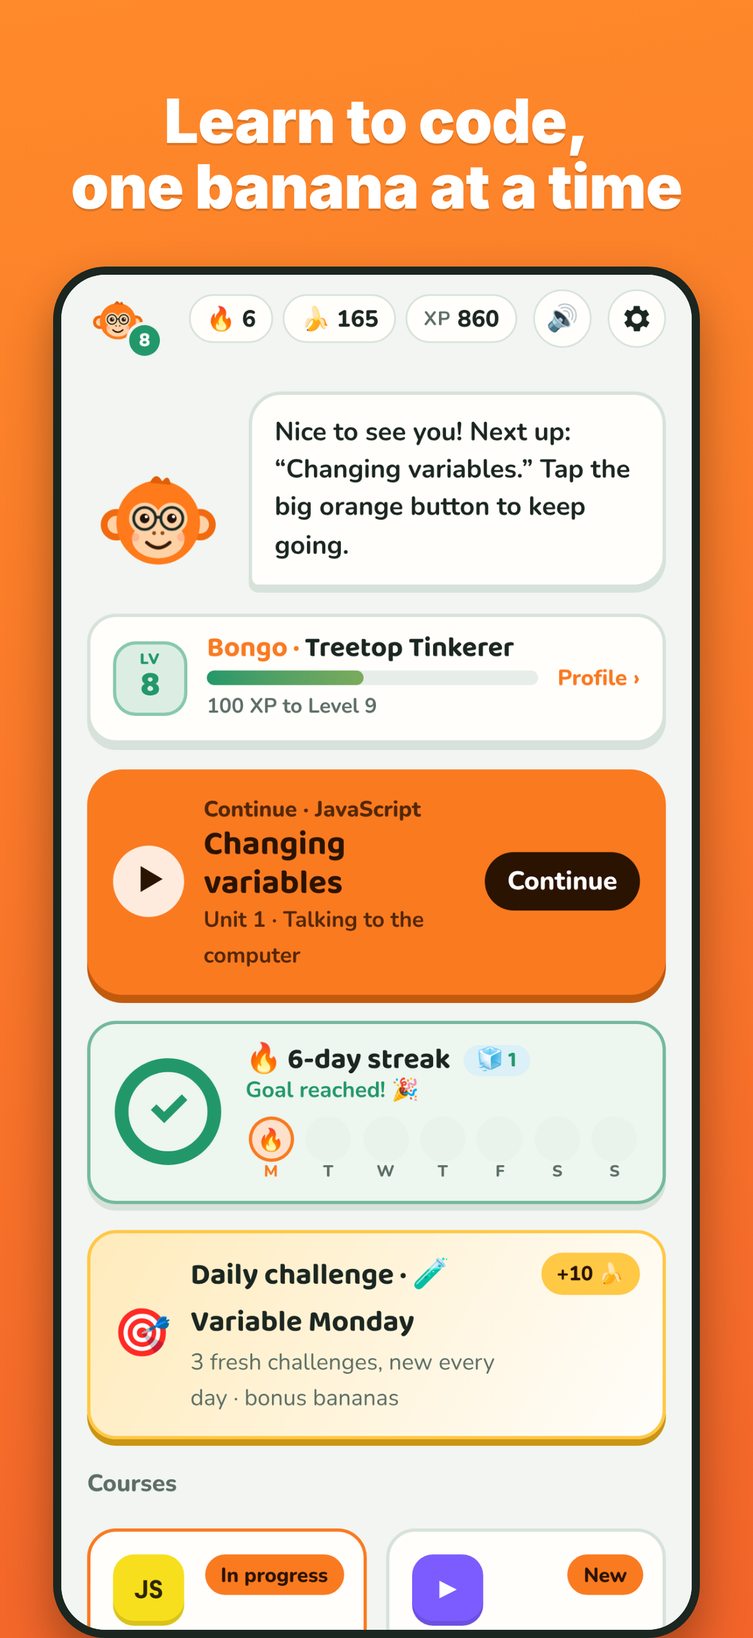
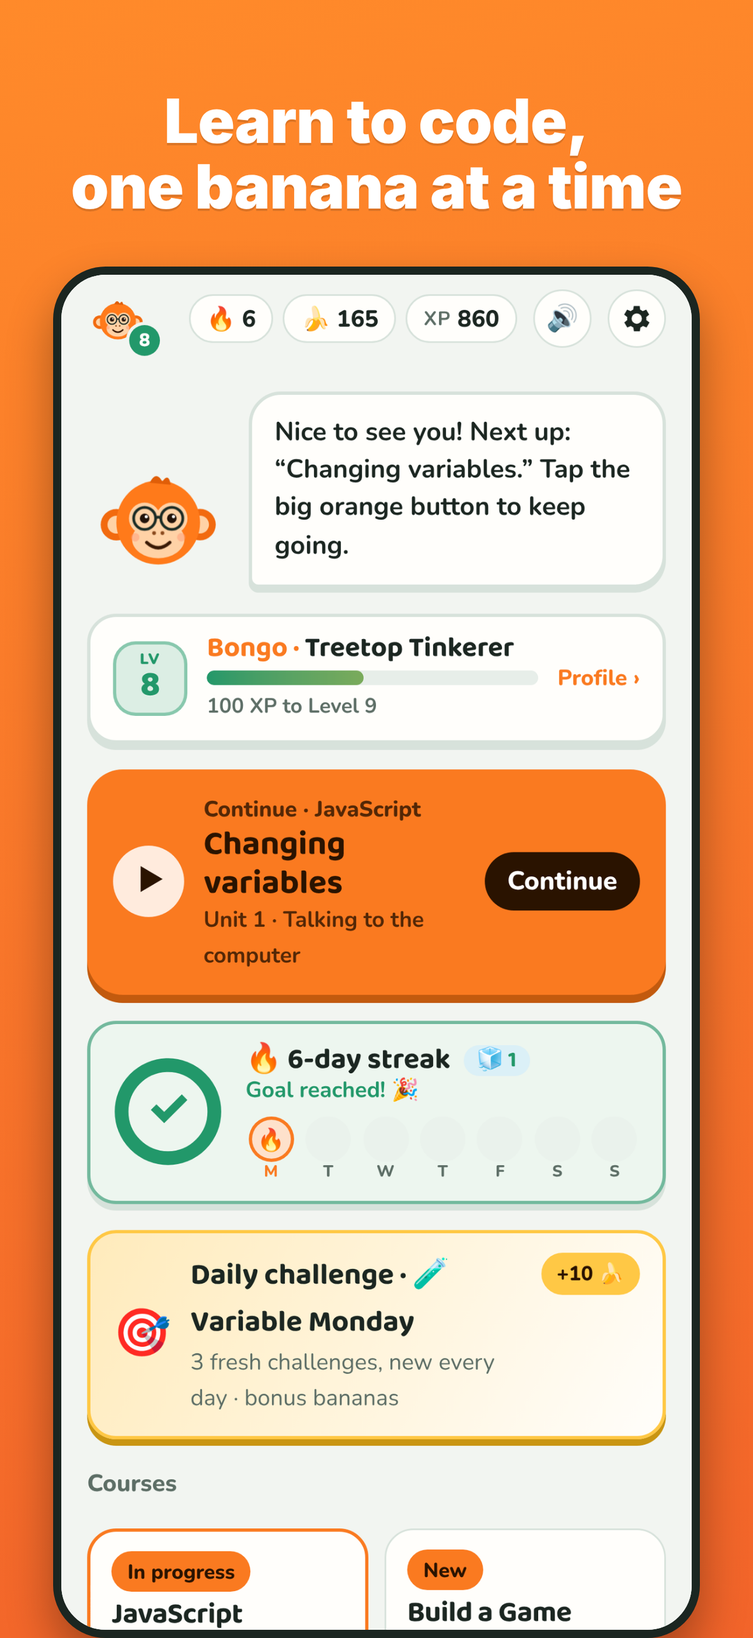
Daily challenge: always 3 fresh puzzles for HTML/SQL/C#/C++/Java/Swift (was 1 repeated); original course cards in a 2-column grid; backup never overwritten before the launch check
Claude-Session: https://claude.ai/code/session_01SrKVjDkXxNfhwYc5YCkDbQ

Changed region(s): [[0.1227, 0.9268, 0.859, 1.0]]

diff --git a/tm-app.js b/tm-app.js
@@ -1960,16 +1960,34 @@ function dailyCoder(r,c,day=new Date()){
 function dailyOpts(ans,wrong){const A=String(ans),seen=new Set([A]),o=[A];for(const w of wrong){const s=String(w);if(!seen.has(s)&&o.length<4){seen.add(s);o.push(s)}}let k=2;while(o.length<3){const s=String((+A||0)+k++);if(!seen.has(s)){seen.add(s);o.push(s)}}return o}
 function pickLeveled(r,bank,L,n){const pool=bank.filter(([l])=>l===L),lower=bank.filter(([l])=>l<L);const out=[];const src=[...pool];
   while(out.length<n&&(src.length||lower.length)){const from=src.length&&(out.length===0||!lower.length||r()<.7)?src:lower;out.push(from.splice(Math.floor(r()*from.length),1)[0][1])}return out}
-function dailyFromLessons(r,c){  // other languages: puzzles from everything you've learned (newest first), never one from the last week
-  const done=flat(c).filter(x=>x.l.steps&&S.done.includes(x.l.id));const L=done.length?done:flat(c).filter(x=>x.l.steps).slice(0,1);
-  const seen=dailySeen(),recent=L.slice(-10),pools=[];recent.forEach((x,ri)=>(x.l.pool||[]).forEach((p,j)=>pools.push({l:x.l,j,w:ri+1})));
-  const fresh=a=>{const f=a.filter(x=>!seen.has(x.key));return f.length?f:a};
-  pools.forEach(p=>p.key=p.l.id+"#p"+p.j);
+function dailyFromLessons(r,c){  // other languages: 3 puzzles from what you've learned (newest first), none from the last week
+  const all=flat(c).filter(x=>x.l.steps);
+  const done=all.filter(x=>S.done.includes(x.l.id));
+  // Lessons to draw from: the ones you finished, plus (when that's only a few) the next lessons and the rest of unit 1,
+  // so there are always enough different puzzles and the daily never shrinks to one repeated question.
+  let L=done.slice(-12);
+  if(L.length<4){const next=all.filter(x=>!S.done.includes(x.l.id)).slice(0,4-L.length+1),u1=(c.units[0]||{lessons:[]}).lessons.map(l=>all.find(x=>x.l===l)).filter(Boolean);
+    for(const x of [...next,...u1])if(!L.includes(x)&&L.length<6)L.push(x)}
+  if(!L.length)L=all.slice(0,3);
+  const seen=dailySeen(),fresh=a=>{const f=a.filter(x=>!seen.has(x.key));return f.length?f:a};
   const pickW=a=>{const tot=a.reduce((q,x)=>q+x.w,0);let k=r()*tot;for(const x of a){k-=x.w;if(k<=0)return x}return a[a.length-1]};
-  const out=[];let pp=fresh(pools);for(let k=0;k<2&&pp.length;k++){const pk=pickW(pp);pp=pp.filter(x=>x!==pk);const p=pk.l.pool[pk.j];
-    out.push({type:"quiz",q:"What does this print?",code:p[0],opts:[...p[1]],a:0,mono:true,why:`It prints ${p[1][0].includes("\n")?"those lines":p[1][0]}.`,_course:c,_from:pk.l.title,_key:pk.key,_src:{key:pk.key,item:{kind:"pool",lid:pk.l.id,j:pk.j}}})}
-  const codes=[];L.slice(-12).forEach((x,ri)=>x.l.steps.forEach((s,si)=>{if(s.type==="code"&&!s.final&&!s.tests)codes.push({s,l:x.l,key:x.l.id+"#c"+si,w:ri+1})}));
-  if(codes.length){const pk=pickW(fresh(codes));out.push({...pk.s,title:"🎯 Daily code: "+pk.s.title,_course:c,_from:pk.l.title,_key:pk.key})}
+  // practice: "what does this print?" pool items, plus the quiz, fill-in and order steps of those lessons
+  const prac=[];
+  L.forEach((x,ri)=>{const w=ri+1;
+    (x.l.pool||[]).forEach((p,j)=>prac.push({key:x.l.id+"#p"+j,w,l:x.l,make:()=>({type:"quiz",q:"What does this print?",code:p[0],opts:[...p[1]],a:0,mono:true,
+      why:`It prints ${p[1][0].includes("\n")?"those lines":p[1][0]}.`,_src:{key:x.l.id+"#p"+j,item:{kind:"pool",lid:x.l.id,j}}})}));
+    x.l.steps.forEach((st,si)=>{if(["quiz","fill","order"].includes(st.type)&&!st.auto)prac.push({key:x.l.id+"#s"+si,w,l:x.l,make:()=>({...st})})});
+  });
+  const codes=[];L.forEach((x,ri)=>x.l.steps.forEach((st,si)=>{if(st.type==="code"&&!st.final&&!st.tests)codes.push({s:st,l:x.l,key:x.l.id+"#c"+si,w:ri+1})}));
+  const out=[];const useCode=codes.length&&c.runnable;
+  let pp=fresh(prac);
+  for(let k=0;k<(useCode?2:3)&&pp.length;k++){const pk=pickW(pp);pp=pp.filter(x=>x!==pk&&x.l!==pk.l||pp.length<=3&&x!==pk);
+    out.push({...pk.make(),_course:c,_from:pk.l.title,_key:pk.key})}
+  if(useCode){const pk=pickW(fresh(codes));out.push({...pk.s,title:"🎯 Daily code: "+pk.s.title,_course:c,_from:pk.l.title,_key:pk.key})}
+  // still short (a course with very few practice steps): top up with more practice, any lesson
+  if(out.length<3){const more=[...fresh(prac),...prac].filter((x,i,a)=>a.indexOf(x)===i&&!out.some(o=>o._key===x.key));
+    while(out.length<3&&more.length){const pk=more.shift();out.splice(out.length-(useCode?1:0),0,{...pk.make(),_course:c,_from:pk.l.title,_key:pk.key})}}
+  if(out.length<3&&codes.length>1){const pk=codes.find(x=>!out.some(o=>o._key===x.key));if(pk)out.push({...pk.s,title:"🎯 Daily code: "+pk.s.title,_course:c,_from:pk.l.title,_key:pk.key})}
   return out;
 }
 /* --- fresh TypeMonkey Jr. puzzles --- */
@@ -3157,16 +3175,16 @@ function coachStart(kind,s){
    has (for example the web view's storage was wiped), it is merged back in with mergeState() (newest wins, and a
    newer "Erase everything" still wins). Does nothing on the web. */
 const Safe={
-  KEY:"progress",timer:null,last:null,s:null,
+  KEY:"progress",timer:null,last:null,s:null,ready:false,   // ready: the launch check is done (never overwrite the copy before reading it)
   plugin(){try{const C=window.Capacitor,P=C&&C.isNativePlatform&&C.isNativePlatform()&&C.Plugins&&C.Plugins.TMCloud;return P&&P.localSet?P:null}catch(e){return null}},
-  write(){const P=Safe.plugin();if(!P)return;clearTimeout(Safe.timer);Safe.timer=null;
+  write(){const P=Safe.plugin();if(!P||!Safe.ready)return;clearTimeout(Safe.timer);Safe.timer=null;
     try{const v=JSON.stringify(S);if(v===Safe.last)return;Safe.last=v;P.localSet({key:Safe.KEY,value:v}).catch(()=>{})}catch(e){}},
-  queue(){if(!Safe.plugin())return;
+  queue(){if(!Safe.plugin()||!Safe.ready)return;
     if(S!==Safe.s){Safe.s=S;Safe.write();return}          // a whole new state (erase, restore, sync): write right away
     clearTimeout(Safe.timer);Safe.timer=setTimeout(Safe.write,1200)},
   async restore(){const P=Safe.plugin();if(!P)return;
-    try{const r=await P.localGet({key:Safe.KEY});if(!r||!r.value)return Safe.write();
-      const got=JSON.parse(r.value);if(!got||typeof got!=="object")return;
+    try{const r=await P.localGet({key:Safe.KEY});Safe.ready=true;if(!r||!r.value)return Safe.write();
+      const got=JSON.parse(r.value);if(!got||typeof got!=="object")return Safe.write();
       // Restore when the device copy is newer OR simply has more progress (the web view may have been wiped and
       // then saved a fresh state before this ran). mergeState keeps the best of both, and a newer "Erase everything" wins.
       const more=(+got.xp||0)>(+S.xp||0)||(got.done||[]).length>(S.done||[]).length;
@@ -3176,7 +3194,7 @@ const Safe={
       Safe.s=S;renderStats();
       if($("#onb")&&S.onboarded)home();else if(!$("#quit")&&typeof rerender==="function")rerender();
       Safe.write();
-    }catch(e){}}
+    }catch(e){Safe.ready=true}}
 };
 {const _save=save;save=function(){const r=_save.apply(this,arguments);try{Safe.queue()}catch(e){}return r}}
 document.addEventListener("visibilitychange",()=>{if(document.hidden&&Safe.timer)Safe.write()});

diff --git a/src/app.html b/src/app.html
@@ -2523,16 +2523,34 @@ function dailyCoder(r,c,day=new Date()){
 function dailyOpts(ans,wrong){const A=String(ans),seen=new Set([A]),o=[A];for(const w of wrong){const s=String(w);if(!seen.has(s)&&o.length<4){seen.add(s);o.push(s)}}let k=2;while(o.length<3){const s=String((+A||0)+k++);if(!seen.has(s)){seen.add(s);o.push(s)}}return o}
 function pickLeveled(r,bank,L,n){const pool=bank.filter(([l])=>l===L),lower=bank.filter(([l])=>l<L);const out=[];const src=[...pool];
   while(out.length<n&&(src.length||lower.length)){const from=src.length&&(out.length===0||!lower.length||r()<.7)?src:lower;out.push(from.splice(Math.floor(r()*from.length),1)[0][1])}return out}
-function dailyFromLessons(r,c){  // other languages: puzzles from everything you've learned (newest first), never one from the last week
-  const done=flat(c).filter(x=>x.l.steps&&S.done.includes(x.l.id));const L=done.length?done:flat(c).filter(x=>x.l.steps).slice(0,1);
-  const seen=dailySeen(),recent=L.slice(-10),pools=[];recent.forEach((x,ri)=>(x.l.pool||[]).forEach((p,j)=>pools.push({l:x.l,j,w:ri+1})));
-  const fresh=a=>{const f=a.filter(x=>!seen.has(x.key));return f.length?f:a};
-  pools.forEach(p=>p.key=p.l.id+"#p"+p.j);
+function dailyFromLessons(r,c){  // other languages: 3 puzzles from what you've learned (newest first), none from the last week
+  const all=flat(c).filter(x=>x.l.steps);
+  const done=all.filter(x=>S.done.includes(x.l.id));
+  // Lessons to draw from: the ones you finished, plus (when that's only a few) the next lessons and the rest of unit 1,
+  // so there are always enough different puzzles and the daily never shrinks to one repeated question.
+  let L=done.slice(-12);
+  if(L.length<4){const next=all.filter(x=>!S.done.includes(x.l.id)).slice(0,4-L.length+1),u1=(c.units[0]||{lessons:[]}).lessons.map(l=>all.find(x=>x.l===l)).filter(Boolean);
+    for(const x of [...next,...u1])if(!L.includes(x)&&L.length<6)L.push(x)}
+  if(!L.length)L=all.slice(0,3);
+  const seen=dailySeen(),fresh=a=>{const f=a.filter(x=>!seen.has(x.key));return f.length?f:a};
   const pickW=a=>{const tot=a.reduce((q,x)=>q+x.w,0);let k=r()*tot;for(const x of a){k-=x.w;if(k<=0)return x}return a[a.length-1]};
-  const out=[];let pp=fresh(pools);for(let k=0;k<2&&pp.length;k++){const pk=pickW(pp);pp=pp.filter(x=>x!==pk);const p=pk.l.pool[pk.j];
-    out.push({type:"quiz",q:"What does this print?",code:p[0],opts:[...p[1]],a:0,mono:true,why:`It prints ${p[1][0].includes("\n")?"those lines":p[1][0]}.`,_course:c,_from:pk.l.title,_key:pk.key,_src:{key:pk.key,item:{kind:"pool",lid:pk.l.id,j:pk.j}}})}
-  const codes=[];L.slice(-12).forEach((x,ri)=>x.l.steps.forEach((s,si)=>{if(s.type==="code"&&!s.final&&!s.tests)codes.push({s,l:x.l,key:x.l.id+"#c"+si,w:ri+1})}));
-  if(codes.length){const pk=pickW(fresh(codes));out.push({...pk.s,title:"🎯 Daily code: "+pk.s.title,_course:c,_from:pk.l.title,_key:pk.key})}
+  // practice: "what does this print?" pool items, plus the quiz, fill-in and order steps of those lessons
+  const prac=[];
+  L.forEach((x,ri)=>{const w=ri+1;
+    (x.l.pool||[]).forEach((p,j)=>prac.push({key:x.l.id+"#p"+j,w,l:x.l,make:()=>({type:"quiz",q:"What does this print?",code:p[0],opts:[...p[1]],a:0,mono:true,
+      why:`It prints ${p[1][0].includes("\n")?"those lines":p[1][0]}.`,_src:{key:x.l.id+"#p"+j,item:{kind:"pool",lid:x.l.id,j}}})}));
+    x.l.steps.forEach((st,si)=>{if(["quiz","fill","order"].includes(st.type)&&!st.auto)prac.push({key:x.l.id+"#s"+si,w,l:x.l,make:()=>({...st})})});
+  });
+  const codes=[];L.forEach((x,ri)=>x.l.steps.forEach((st,si)=>{if(st.type==="code"&&!st.final&&!st.tests)codes.push({s:st,l:x.l,key:x.l.id+"#c"+si,w:ri+1})}));
+  const out=[];const useCode=codes.length&&c.runnable;
+  let pp=fresh(prac);
+  for(let k=0;k<(useCode?2:3)&&pp.length;k++){const pk=pickW(pp);pp=pp.filter(x=>x!==pk&&x.l!==pk.l||pp.length<=3&&x!==pk);
+    out.push({...pk.make(),_course:c,_from:pk.l.title,_key:pk.key})}
+  if(useCode){const pk=pickW(fresh(codes));out.push({...pk.s,title:"🎯 Daily code: "+pk.s.title,_course:c,_from:pk.l.title,_key:pk.key})}
+  // still short (a course with very few practice steps): top up with more practice, any lesson
+  if(out.length<3){const more=[...fresh(prac),...prac].filter((x,i,a)=>a.indexOf(x)===i&&!out.some(o=>o._key===x.key));
+    while(out.length<3&&more.length){const pk=more.shift();out.splice(out.length-(useCode?1:0),0,{...pk.make(),_course:c,_from:pk.l.title,_key:pk.key})}}
+  if(out.length<3&&codes.length>1){const pk=codes.find(x=>!out.some(o=>o._key===x.key));if(pk)out.push({...pk.s,title:"🎯 Daily code: "+pk.s.title,_course:c,_from:pk.l.title,_key:pk.key})}
   return out;
 }
 /* --- fresh TypeMonkey Jr. puzzles --- */

diff --git a/index.html b/index.html
@@ -1014,28 +1014,15 @@ h1,h2,h3{letter-spacing:-.012em;text-wrap:balance}
 .tool{border-radius:var(--r);box-shadow:0 4px 0 var(--edge);transition:transform .09s var(--press),box-shadow .09s var(--press);min-height:108px}
 .tool:active{transform:translateY(3px);box-shadow:0 1px 0 var(--edge)}
 
-/* ---------- Home: course grid with language badges ---------- */
-.courses{grid-template-columns:1fr 1fr;gap:12px}
+/* ---------- Home: the original course cards, two to a row (less scrolling) ---------- */
+.courses{grid-template-columns:1fr 1fr;gap:10px}
 @media (max-width:340px){.courses{grid-template-columns:1fr}}
-.course{position:relative;border:2px solid var(--line);border-radius:var(--r);box-shadow:0 4px 0 var(--line);padding:14px 14px 12px;gap:3px;min-width:0;transition:transform .09s var(--press),box-shadow .09s var(--press)}
-.course:active{transform:translateY(3px);box-shadow:0 1px 0 var(--line)}
-.course.live{border:2px solid var(--accent);box-shadow:0 4px 0 var(--edge-acc)}
-.course.kids{border-color:var(--edge-ban);box-shadow:0 4px 0 var(--edge-ban)}
-.course::before{content:"JS";display:grid;place-items:center;width:44px;height:44px;border-radius:13px;margin-bottom:6px;font-family:var(--mono);font-weight:800;font-size:.95rem;letter-spacing:-.02em;background:#F7DF1E;color:#2B2600;box-shadow:inset 0 -3px 0 #0000001f}
-.course[data-c="game"]::before{content:"▶";background:#7C5CFF;color:#fff;font-size:1.1rem}
-.course[data-c="py"]::before{content:"Py";background:#3776AB;color:#FFE873}
-.course[data-c="web"]::before{content:"</>";background:#E8572A;color:#fff;font-size:.85rem}
-.course[data-c="sql"]::before{content:"SQL";background:#0F7F88;color:#fff;font-size:.8rem}
-.course[data-c="cs"]::before{content:"C#";background:#6B2D8C;color:#fff}
-.course[data-c="cpp"]::before{content:"C++";background:#1E5FA8;color:#fff;font-size:.82rem}
-.course[data-c="java"]::before{content:"Jv";background:#D9661C;color:#fff}
-.course[data-c="swift"]::before{content:"Sw";background:#F05138;color:#fff}
-.course[data-c="jr"]::before{content:"Jr";background:#fff;color:#7A4E00}
-.course .pill{position:absolute;top:14px;right:12px;max-width:calc(100% - 76px);overflow:hidden;text-overflow:ellipsis}
-.course h3{font-size:1.15rem;line-height:1.2;margin:0}
-.course .tag{font-size:.76rem;white-space:nowrap;overflow:hidden;text-overflow:ellipsis;max-width:100%}
-.course .meta{font-size:.8rem}
-.course .mini{height:7px;margin-top:6px}
+.course{padding:12px 13px;gap:4px;min-width:0}
+.course h3{font-size:1.12rem;line-height:1.2;margin:0}
+.course .tag{font-size:.74rem;white-space:nowrap;overflow:hidden;text-overflow:ellipsis;max-width:100%}
+.course .meta{font-size:.78rem}
+.course .pill{max-width:100%;overflow:hidden;text-overflow:ellipsis}
+.course:active{transform:scale(.98)}
 .continue small{text-transform:none;letter-spacing:0;font-size:.85rem}
 /* returning players: skip the big tagline, start with the monkey's greeting */
 .stack.tm-returning>.hero{display:none}

diff --git a/src/features/95-polish.css b/src/features/95-polish.css
@@ -58,28 +58,15 @@ h1,h2,h3{letter-spacing:-.012em;text-wrap:balance}
 .tool{border-radius:var(--r);box-shadow:0 4px 0 var(--edge);transition:transform .09s var(--press),box-shadow .09s var(--press);min-height:108px}
 .tool:active{transform:translateY(3px);box-shadow:0 1px 0 var(--edge)}
 
-/* ---------- Home: course grid with language badges ---------- */
-.courses{grid-template-columns:1fr 1fr;gap:12px}
+/* ---------- Home: the original course cards, two to a row (less scrolling) ---------- */
+.courses{grid-template-columns:1fr 1fr;gap:10px}
 @media (max-width:340px){.courses{grid-template-columns:1fr}}
-.course{position:relative;border:2px solid var(--line);border-radius:var(--r);box-shadow:0 4px 0 var(--line);padding:14px 14px 12px;gap:3px;min-width:0;transition:transform .09s var(--press),box-shadow .09s var(--press)}
-.course:active{transform:translateY(3px);box-shadow:0 1px 0 var(--line)}
-.course.live{border:2px solid var(--accent);box-shadow:0 4px 0 var(--edge-acc)}
-.course.kids{border-color:var(--edge-ban);box-shadow:0 4px 0 var(--edge-ban)}
-.course::before{content:"JS";display:grid;place-items:center;width:44px;height:44px;border-radius:13px;margin-bottom:6px;font-family:var(--mono);font-weight:800;font-size:.95rem;letter-spacing:-.02em;background:#F7DF1E;color:#2B2600;box-shadow:inset 0 -3px 0 #0000001f}
-.course[data-c="game"]::before{content:"▶";background:#7C5CFF;color:#fff;font-size:1.1rem}
-.course[data-c="py"]::before{content:"Py";background:#3776AB;color:#FFE873}
-.course[data-c="web"]::before{content:"</>";background:#E8572A;color:#fff;font-size:.85rem}
-.course[data-c="sql"]::before{content:"SQL";background:#0F7F88;color:#fff;font-size:.8rem}
-.course[data-c="cs"]::before{content:"C#";background:#6B2D8C;color:#fff}
-.course[data-c="cpp"]::before{content:"C++";background:#1E5FA8;color:#fff;font-size:.82rem}
-.course[data-c="java"]::before{content:"Jv";background:#D9661C;color:#fff}
-.course[data-c="swift"]::before{content:"Sw";background:#F05138;color:#fff}
-.course[data-c="jr"]::before{content:"Jr";background:#fff;color:#7A4E00}
-.course .pill{position:absolute;top:14px;right:12px;max-width:calc(100% - 76px);overflow:hidden;text-overflow:ellipsis}
-.course h3{font-size:1.15rem;line-height:1.2;margin:0}
-.course .tag{font-size:.76rem;white-space:nowrap;overflow:hidden;text-overflow:ellipsis;max-width:100%}
-.course .meta{font-size:.8rem}
-.course .mini{height:7px;margin-top:6px}
+.course{padding:12px 13px;gap:4px;min-width:0}
+.course h3{font-size:1.12rem;line-height:1.2;margin:0}
+.course .tag{font-size:.74rem;white-space:nowrap;overflow:hidden;text-overflow:ellipsis;max-width:100%}
+.course .meta{font-size:.78rem}
+.course .pill{max-width:100%;overflow:hidden;text-overflow:ellipsis}
+.course:active{transform:scale(.98)}
 .continue small{text-transform:none;letter-spacing:0;font-size:.85rem}
 /* returning players: skip the big tagline, start with the monkey's greeting */
 .stack.tm-returning>.hero{display:none}

diff --git a/src/features/60-safekeep.js b/src/features/60-safekeep.js
@@ -5,16 +5,16 @@
    has (for example the web view's storage was wiped), it is merged back in with mergeState() (newest wins, and a
    newer "Erase everything" still wins). Does nothing on the web. */
 const Safe={
-  KEY:"progress",timer:null,last:null,s:null,
+  KEY:"progress",timer:null,last:null,s:null,ready:false,   // ready: the launch check is done (never overwrite the copy before reading it)
   plugin(){try{const C=window.Capacitor,P=C&&C.isNativePlatform&&C.isNativePlatform()&&C.Plugins&&C.Plugins.TMCloud;return P&&P.localSet?P:null}catch(e){return null}},
-  write(){const P=Safe.plugin();if(!P)return;clearTimeout(Safe.timer);Safe.timer=null;
+  write(){const P=Safe.plugin();if(!P||!Safe.ready)return;clearTimeout(Safe.timer);Safe.timer=null;
     try{const v=JSON.stringify(S);if(v===Safe.last)return;Safe.last=v;P.localSet({key:Safe.KEY,value:v}).catch(()=>{})}catch(e){}},
-  queue(){if(!Safe.plugin())return;
+  queue(){if(!Safe.plugin()||!Safe.ready)return;
     if(S!==Safe.s){Safe.s=S;Safe.write();return}          // a whole new state (erase, restore, sync): write right away
     clearTimeout(Safe.timer);Safe.timer=setTimeout(Safe.write,1200)},
   async restore(){const P=Safe.plugin();if(!P)return;
-    try{const r=await P.localGet({key:Safe.KEY});if(!r||!r.value)return Safe.write();
-      const got=JSON.parse(r.value);if(!got||typeof got!=="object")return;
+    try{const r=await P.localGet({key:Safe.KEY});Safe.ready=true;if(!r||!r.value)return Safe.write();
+      const got=JSON.parse(r.value);if(!got||typeof got!=="object")return Safe.write();
       // Restore when the device copy is newer OR simply has more progress (the web view may have been wiped and
       // then saved a fresh state before this ran). mergeState keeps the best of both, and a newer "Erase everything" wins.
       const more=(+got.xp||0)>(+S.xp||0)||(got.done||[]).length>(S.done||[]).length;
@@ -24,7 +24,7 @@ const Safe={
       Safe.s=S;renderStats();
       if($("#onb")&&S.onboarded)home();else if(!$("#quit")&&typeof rerender==="function")rerender();
       Safe.write();
-    }catch(e){}}
+    }catch(e){Safe.ready=true}}
 };
 {const _save=save;save=function(){const r=_save.apply(this,arguments);try{Safe.queue()}catch(e){}return r}}
 document.addEventListener("visibilitychange",()=>{if(document.hidden&&Safe.timer)Safe.write()});

diff --git a/tests/verify_safekeep.py b/tests/verify_safekeep.py
@@ -12,30 +12,36 @@ URL = (ROOT / "index.html").as_uri()
 fails = []
 def ok(c, m):
     if not c: fails.append(m)
-FAKE = """window.__dev=window.__dev||JSON.parse(sessionStorage.getItem('dev')||'{}');
+DEV = {}   # the fake device storage lives here in the test, so it survives page reloads like the real one
+FAKE = """
 window.Capacitor={isNativePlatform:()=>true,Plugins:{TMCloud:{
-  localGet:async({key})=>(__dev[key]?{value:__dev[key]}:{}),
-  localSet:async({key,value})=>{__dev[key]=value;sessionStorage.setItem('dev',JSON.stringify(__dev))},
+  localGet:async({key})=>{const v=await window.devGet(key);return v?{value:v}:{}},
+  localSet:async({key,value})=>{await window.devSet(key,value)},
   available:async()=>({available:false}),get:async()=>({}),set:async()=>{},addListener(){}}}};"""
 with sync_playwright() as p:
     b = p.chromium.launch()
     ctx = b.new_context(viewport={"width": 390, "height": 844})
+    ctx.expose_function("devGet", lambda k: DEV.get(k))
+    ctx.expose_function("devSet", lambda k, v: DEV.__setitem__(k, v))
     ctx.add_init_script(FAKE)
     pg = ctx.new_page(); errs = []; pg.on("pageerror", lambda e: errs.append(str(e)))
     pg.goto(URL); pg.wait_for_timeout(600)
     pg.evaluate("S.onboarded=true;S.xp=777;S.streak=12;S.done=['js1','js2'];save()"); pg.wait_for_timeout(1600)
-    dev = pg.evaluate("JSON.parse(__dev.progress||'{}')")
+    dev = json.loads(DEV.get("progress") or "{}")
     ok(dev.get("xp") == 777 and dev.get("streak") == 12, f"save not mirrored to the device copy: {dev.get('xp')}")
     # the web view's storage is wiped by the system
-    pg.evaluate("localStorage.clear()"); pg.reload(); pg.wait_for_timeout(1200)
+    pg.evaluate("localStorage.clear()"); pg.reload()
+    try: pg.wait_for_function("S&&S.xp===777&&!!localStorage.getItem('typemonkey-v1')", timeout=8000)
+    except Exception: pass
+    pg.wait_for_timeout(300)
     st = pg.evaluate("({xp:S.xp,streak:S.streak,done:S.done,onb:S.onboarded,home:!!document.querySelector('#todayCard')})")
     ok(st["xp"] == 777 and st["streak"] == 12 and st["done"] == ["js1", "js2"] and st["onb"], f"progress not restored after a wipe: {st}")
     ok(st["home"], "should land on Home (not the welcome) after restoring")
-    ok(pg.evaluate("JSON.parse(localStorage.getItem('typemonkey-v1')).xp") == 777, "restored progress not written back to storage")
+    ok(pg.evaluate("(JSON.parse(localStorage.getItem('typemonkey-v1'))||{}).xp") == 777, "restored progress not written back to storage")
     # Erase everything must stick
     pg.evaluate("settingsPage()"); pg.evaluate("$('#reset').click()"); pg.evaluate("$('#yes').click()"); pg.wait_for_timeout(300)
     pg.reload(); pg.wait_for_timeout(1200)
-    ok(pg.evaluate("S.xp") == 0 and pg.evaluate("JSON.parse(__dev.progress).xp") == 0, f"Erase everything was undone: xp {pg.evaluate('S.xp')}")
+    ok(pg.evaluate("S.xp") == 0 and json.loads(DEV.get("progress") or "{}").get("xp") == 0, f"Erase everything was undone: xp {pg.evaluate('S.xp')}")
     ok(not errs, f"page errors: {errs[:3]}")
     # the web: no plugin, nothing happens
     w = b.new_page(); w.goto(URL); w.wait_for_timeout(600)

diff --git a/tests/verify_daily.py b/tests/verify_daily.py
@@ -69,12 +69,24 @@ async def main():
     async with async_playwright() as p:
         b = await p.chromium.launch(); pg = await b.new_page()
         await pg.goto((ROOT / "index.html").as_uri()); await pg.wait_for_timeout(800)
-        res = await pg.evaluate(GEN); await b.close()
+        res = await pg.evaluate(GEN)
+        # other languages (HTML, SQL, C#, C++, Java, Swift): always 3 puzzles, a different set every day, even after 1 lesson
+        other = await pg.evaluate("""()=>{const bad=[];
+          for(const c of COURSES){if(!c.units||c.kids||c.extra||["js","game","py"].includes(c.id))continue;
+            for(const n of [1,3,8]){S.done=flat(c).filter(x=>x.l.steps).slice(0,n).map(x=>x.l.id);S.daily={};const days=[];
+              for(let d=0;d<14;d++){const st=dailyFromLessons(seeded("typemonkey-t"+c.id+n+"-"+d),c);
+                if(st.length!==3)bad.push(c.id+" after "+n+" lesson(s), day "+d+": "+st.length+" puzzle(s), want 3");
+                if(new Set(st.map(x=>x._key)).size!==st.length)bad.push(c.id+" day "+d+": the same puzzle twice in one daily");
+                days.push(st.map(x=>x._key).join(","));S.daily={seen:[...st.map(x=>x._key),...((S.daily||{}).seen||[])].slice(0,24)}}
+              for(let d=1;d<days.length;d++)if(days[d]===days[d-1])bad.push(c.id+" after "+n+" lesson(s): day "+d+" is the same as the day before")}}
+          return bad}""")
+        res["bad"] += other
+        await b.close()
     bad = res["bad"]
     for code, ans in res["py"]:
         got = subprocess.run([sys.executable, "-I", "-c", code], capture_output=True, text=True, timeout=5).stdout.strip()
         if got != ans: bad.append(f"py: answer {ans} but python3 prints {got}\n{code}")
     for x in bad[:20]: print("FAIL", x)
-    print(f"Daily: 360 generated days x (JS, Python, Jr.) checked, {len(res['py'])} Python puzzles vs python3. {len(bad)} problem(s)")
+    print(f"Daily: 360 generated days x (JS, Python, Jr.) + 14 days x 6 other languages checked, {len(res['py'])} Python puzzles vs python3. {len(bad)} problem(s)")
     sys.exit(1 if bad else 0)
 asyncio.run(main())

diff --git a/app/store/APP_STORE.md b/app/store/APP_STORE.md
@@ -181,7 +181,8 @@ In Xcode: **▶ Run** on your phone to check it, then **Product → Archive → 
 >
 > • Every button, answer and course is now a chunky, tappable block that presses down when you tap it
 > • A clear green or red result bar after every answer
-> • Courses in a neat two-column grid, each with its own language badge
+> • Courses in a neat two-column grid, so you see more at once
+> • Daily challenges for HTML, SQL, C#, C++, Java and Swift now always have 3 fresh puzzles
 > • A cleaner Home that gets you to your next lesson faster
 > • Smooth transitions between screens and livelier progress bars
 > • Lots of small fixes and polish
